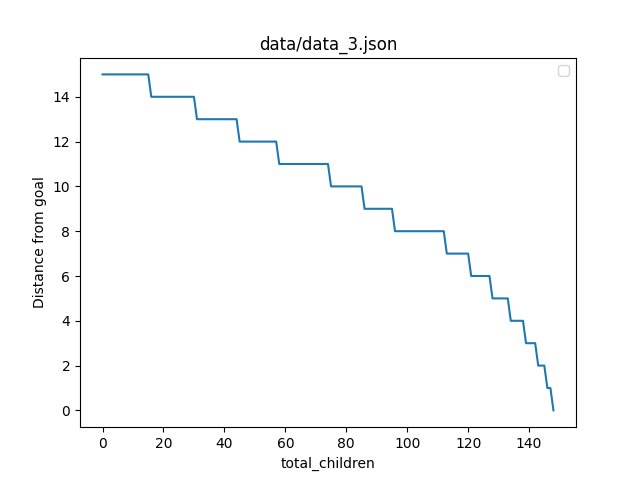
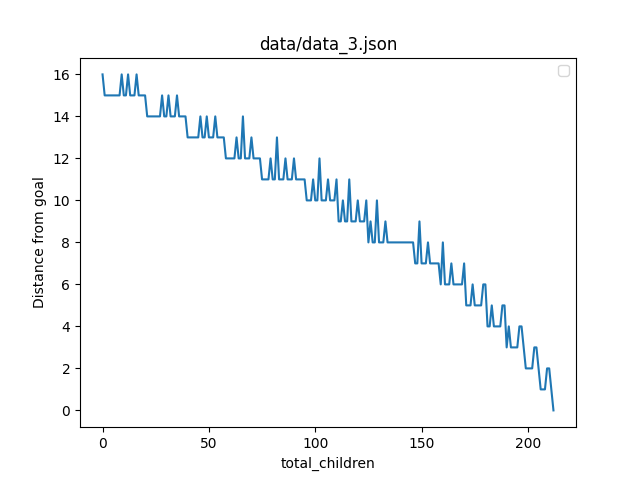
final

diff --git a/hw3/bfs.py b/hw3/bfs.py
@@ -34,10 +34,27 @@ def generate_output(input_example, actions):
     generated = np.full(input_example.shape, fill_value=-1, dtype=np.int8)  # Initialize empty grid
 
     for action in actions:
-        val, (old_x, old_y), new_val, (new_x, new_y) = action
-        generated[new_x, new_y] = input_example[old_x, old_y]
+        _, (_, _), new_val, (new_x, new_y) = action
+        generated[new_x, new_y] = new_val
     return generated
 
+def scale(grid):
+    actions = set()
+    rows, cols = grid.shape
+
+    for r in range(rows):
+        for c in range(cols):
+            old_val = grid[r, c]
+
+            if old_val < 9:
+                new_val = old_val * 2
+            else:
+                new_val = 0
+            
+            if old_val != new_val:
+                actions.add((old_val, (r, c), new_val, (r, c)))
+    
+    return actions
 
 def get_actions(grid, new_grid):
     """
@@ -54,9 +71,8 @@ def get_actions(grid, new_grid):
 
     for r in range(rows):
         for c in range(cols):
-            if (r, c) in visited_inputs:  # Skip if already mapped
+            if (r, c) in visited_inputs:  # skip if already mapped
                 continue
-
             val = grid[r, c]
             found = False
 
@@ -67,10 +83,10 @@ def get_actions(grid, new_grid):
                         visited_inputs.add((r, c))
                         visited_outputs.add((r2, c2))
                         found = True
-                        break  # Stop after finding one valid match
+                        break  # stop inner loop after finding one match
 
                 if found:
-                    break  # Ensure only one match per input position
+                    break  # one match per input position
 
     return actions
 
@@ -85,24 +101,29 @@ def greedy_search(input_example, output_example):
     distances = []
 
     while frontier:
-        frontier.sort(key=lambda x: x[0])  # Sort by lowest goal distance
+        frontier.sort(key=lambda x: x[0])  # sort by lowest goal distance
         distance, actions = frontier.pop(0)  
-        
+
         goal_reached = goal_test(actions, input_example, output_example)
         if goal_reached:
-            return actions, iterations, len(distances), distances  # Return the correct mapping function
+            return actions, iterations, len(distances), distances  
 
         explored.add(tuple(actions))
 
-        # Generate new possible actions
         new_actions = get_actions(input_example, output_example)
-        for action in new_actions:
+        scaled_actions = scale(input_example) 
+
+        all_actions = new_actions | scaled_actions # combine sets of actions
+
+        for action in all_actions:  
             child = set(actions)
             child.add(action)
+
             if tuple(child) not in explored:
                 new_distance = goal_distance(child, input_example, output_example)
                 distances.append(new_distance)
-                frontier.append((new_distance, child))  # Add new state
+                frontier.append((new_distance, child))
+
         iterations += 1
 
 def get_example_elements(json_example):
@@ -121,7 +142,7 @@ def get_example_elements(json_example):
     return pairs
 
 
-files = ['data/data_0.json', 'data/data_1.json', 'data/data_2.json', 'data/data_3.json']
+files = ['data/data_0.json', 'data/data_1.json', 'data/data_2.json', 'data/data_3.json', 'data/data_bonus.json']
 for i, file in enumerate(files):
     with open(file, 'r') as f:
         data = json.load(f)
@@ -132,7 +153,7 @@ for i, file in enumerate(files):
             input_grid = example["input"]
             output_grid = example["output"]
 
-            print("/nInitial: ", input_grid)
+            print("\nInitial: ", input_grid)
             print("Final: ", output_grid)
 
             found_function, iterations, total_children, distances = greedy_search(input_grid, output_grid)

diff --git a/hw3/genetic_algo.py b/hw3/genetic_algo.py
@@ -138,7 +138,7 @@ if __name__ == '__main__':
     mutation_rate = 0.1
     generations = 10000
 
-    files = ['data/data_0.json', 'data/data_1.json', 'data/data_2.json', 'data/data_3.json']
+    files = ['data/data_0.json', 'data/data_1.json', 'data/data_2.json', 'data/data_3.json', 'data/data_bonus.json']
 
     for i, file in enumerate(files):
         train, test = parse_files(file)

diff --git a/hw3/README.md b/hw3/README.md
@@ -82,21 +82,27 @@ python genetic_algo.py
 ✅ Saves fitness loss vs. generations plots and crossover index vs. generations plots in the plots/ directory.
 
 📊 Example Output:
-
-Processing data/data_0.json...
-No match found.
-Processing data/data_1.json...
 Match found after 350 generations!
 
 Plots will be saved as:
-📌 plots/genetic_algo_plot_file_0.png – Fitness loss vs. Generations
-📌 plots/genetic_algo_plot_file_1.png – Fitness loss vs. Generations
-📌 plots/crossover_tests.png – Crossover Index vs. Convergence Speed
+📌 plots/genetic_algo_plot_file_0.png
+📌 plots/genetic_algo_plot_file_1.png
+📌 plots/crossover_tests.png 
 
 🔍 Crossover Index Impact on Convergence
 	•	Crossover points near the center generally result in faster convergence.
 	•	Crossover points near the edges lead to slower convergence, likely due to less genetic diversity being introduced per generation.
 	•	The optimal crossover point varies based on input complexity.
+
+🔍 BFS vs. Genetic Search:
+	•	Greedy Breadth-First Search (GBFS): Explores all possible actions (brute force) at each depth before moving deeper. It systematically finds the shortest path can be computationally expensive.
+	•	Genetic Search: Uses evolutionary principles (mutation, crossover, selection) to explore solutions. It’s more flexible but can take longer, especially in complex state spaces.
+
+    Key Differences:
+        •	BFS is exhaustive and guarantees the shortest path but scales poorly in large spaces.
+        •	Genetic search is heuristic-based, allowing faster convergence on good solutions but with no guarantee of optimality.
+
+    Genetic search is better for exploring unknown or vast state spaces, while BFS and GBFS are more structured but can be computationally limiting.		
 
 🔍 Running the Greedy Search Algorithm
 
